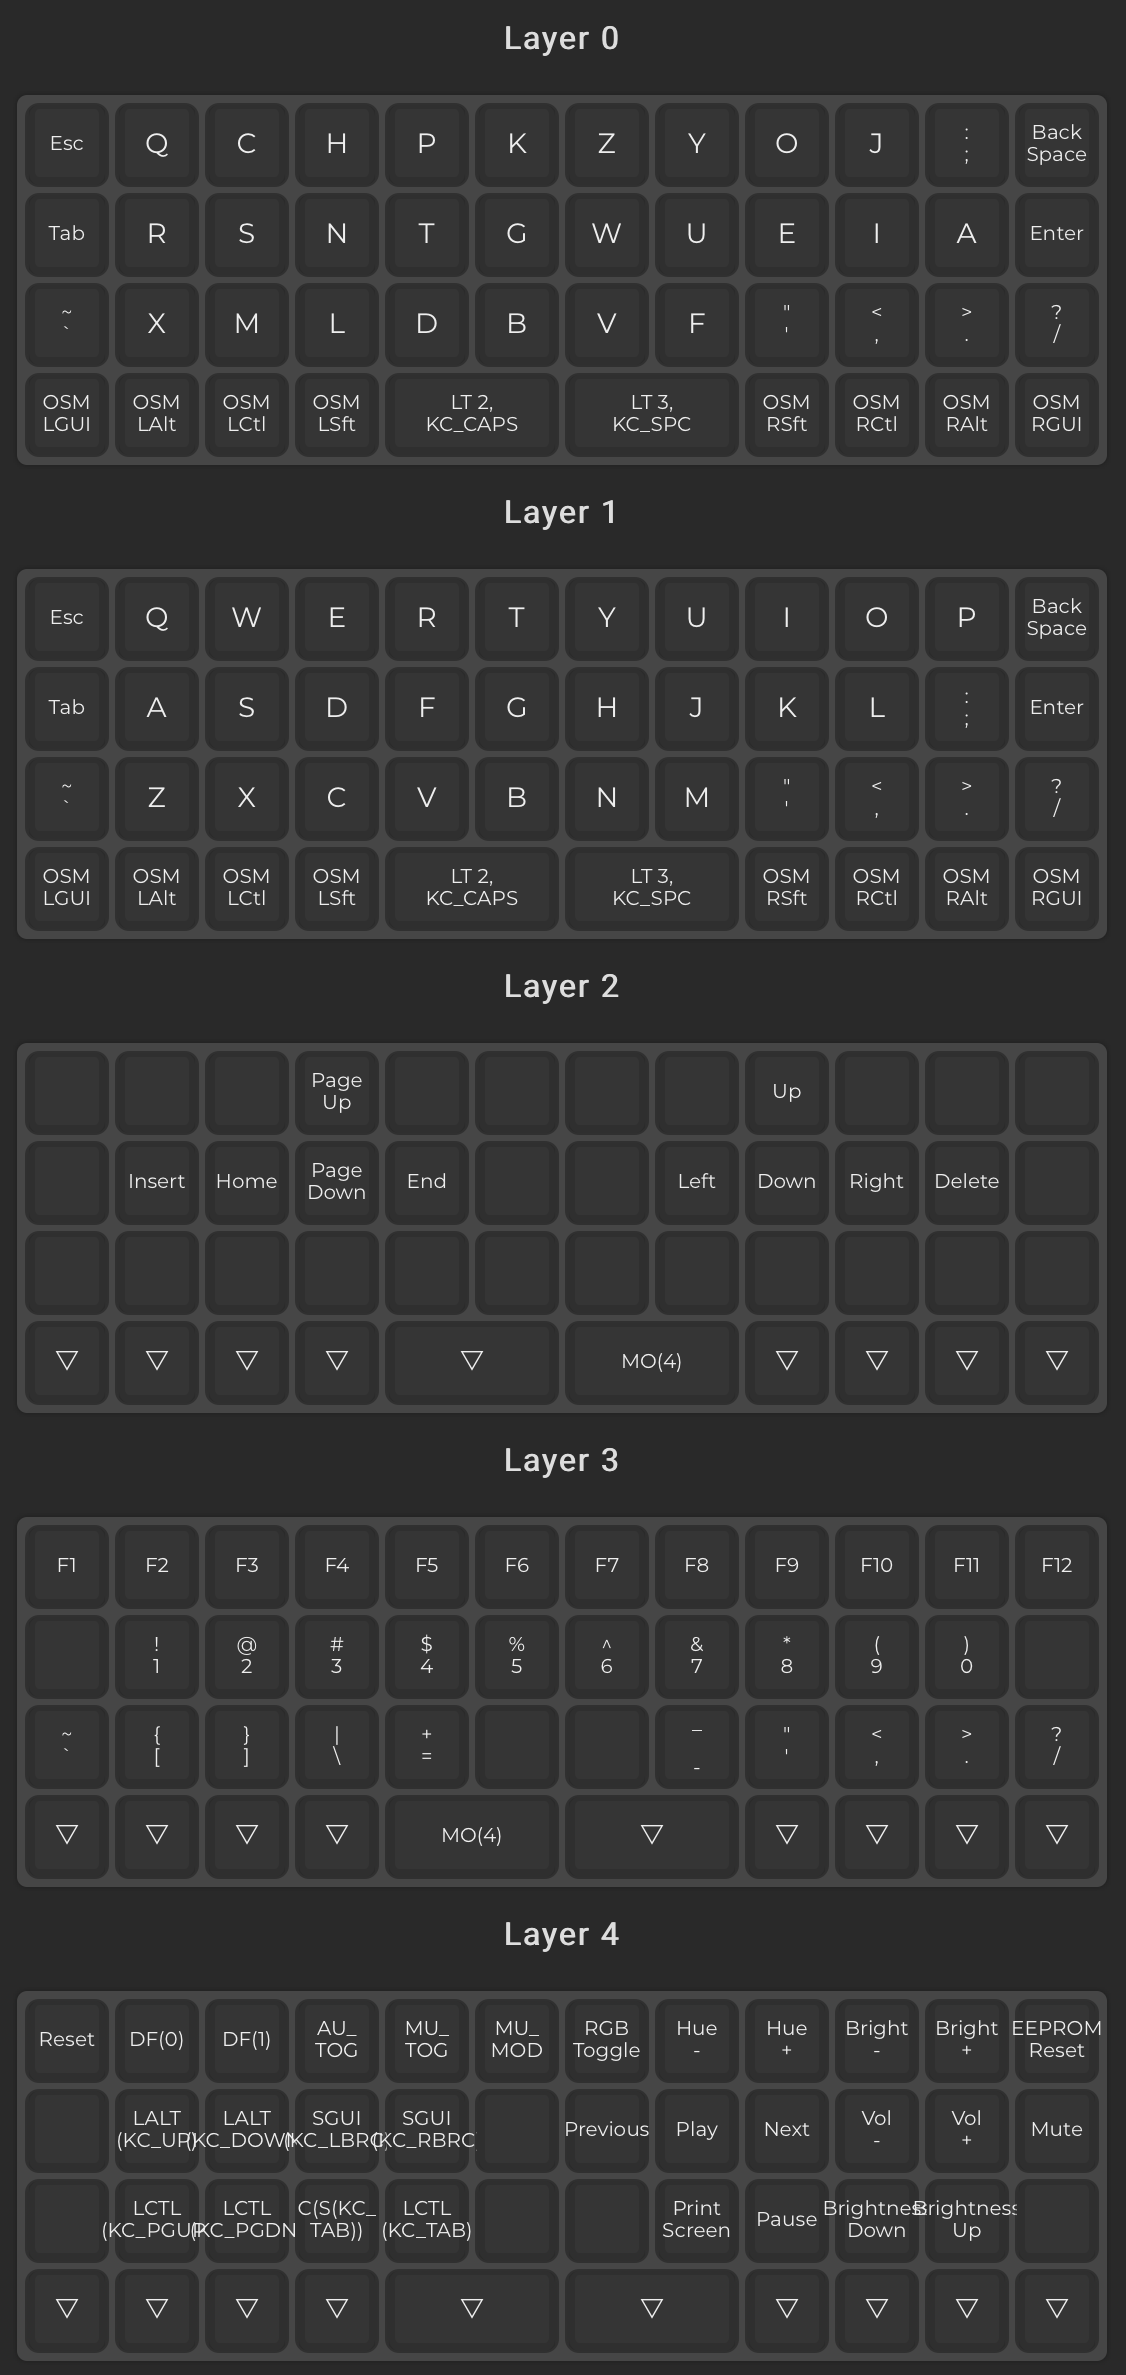
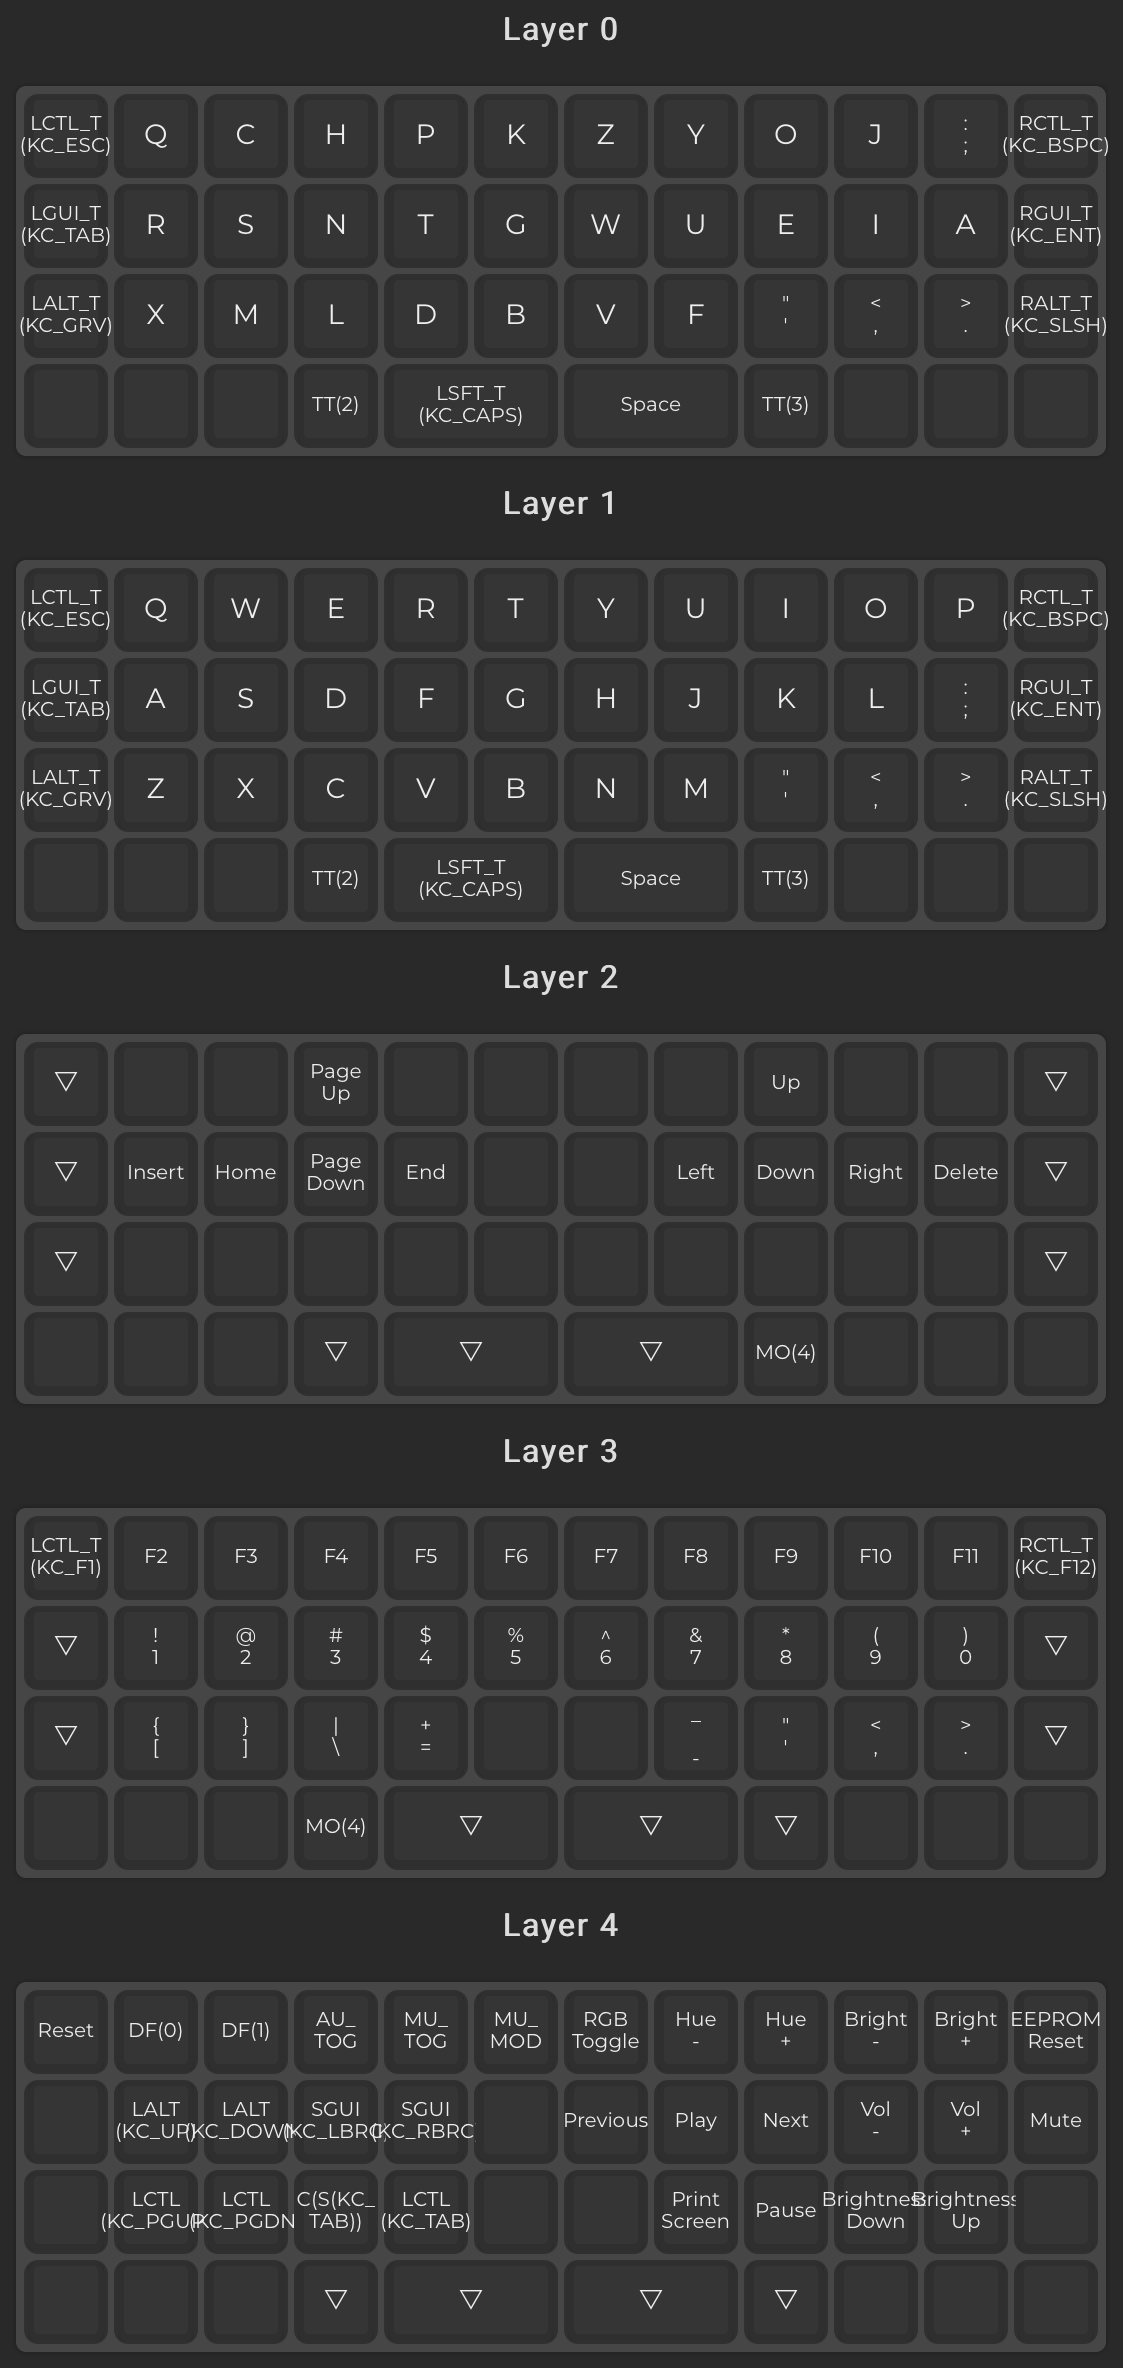
Try side mods

diff --git a/keymap.c b/keymap.c
@@ -7,9 +7,9 @@
  */
 
 const uint16_t PROGMEM keymaps[][MATRIX_ROWS][MATRIX_COLS] = {
-	[0] = LAYOUT_planck_2x2u(KC_ESC, KC_Q, KC_C, KC_H, KC_P, KC_K, KC_Z, KC_Y, KC_O, KC_J, KC_SCLN, KC_BSPC, KC_TAB, KC_R, KC_S, KC_N, KC_T, KC_G, KC_W, KC_U, KC_E, KC_I, KC_A, KC_ENT, KC_GRV, KC_X, KC_M, KC_L, KC_D, KC_B, KC_V, KC_F, KC_QUOT, KC_COMM, KC_DOT, KC_SLSH, OSM(MOD_LGUI), OSM(MOD_LALT), OSM(MOD_LCTL), OSM(MOD_LSFT), LT(2,KC_CAPS), LT(3,KC_SPC), OSM(MOD_RSFT), OSM(MOD_RCTL), OSM(MOD_RALT), OSM(MOD_RGUI)),
-	[1] = LAYOUT_planck_2x2u(KC_ESC, KC_Q, KC_W, KC_E, KC_R, KC_T, KC_Y, KC_U, KC_I, KC_O, KC_P, KC_BSPC, KC_TAB, KC_A, KC_S, KC_D, KC_F, KC_G, KC_H, KC_J, KC_K, KC_L, KC_SCLN, KC_ENT, KC_GRV, KC_Z, KC_X, KC_C, KC_V, KC_B, KC_N, KC_M, KC_QUOT, KC_COMM, KC_DOT, KC_SLSH, OSM(MOD_LGUI), OSM(MOD_LALT), OSM(MOD_LCTL), OSM(MOD_LSFT), LT(2,KC_CAPS), LT(3,KC_SPC), OSM(MOD_RSFT), OSM(MOD_RCTL), OSM(MOD_RALT), OSM(MOD_RGUI)),
-	[2] = LAYOUT_planck_2x2u(KC_NO, KC_NO, KC_NO, KC_PGUP, KC_NO, KC_NO, KC_NO, KC_NO, KC_UP, KC_NO, KC_NO, KC_NO, KC_NO, KC_INS, KC_HOME, KC_PGDN, KC_END, KC_NO, KC_NO, KC_LEFT, KC_DOWN, KC_RGHT, KC_DEL, KC_NO, KC_NO, KC_NO, KC_NO, KC_NO, KC_NO, KC_NO, KC_NO, KC_NO, KC_NO, KC_NO, KC_NO, KC_NO, KC_TRNS, KC_TRNS, KC_TRNS, KC_TRNS, KC_TRNS, MO(4), KC_TRNS, KC_TRNS, KC_TRNS, KC_TRNS),
-	[3] = LAYOUT_planck_2x2u(KC_F1, KC_F2, KC_F3, KC_F4, KC_F5, KC_F6, KC_F7, KC_F8, KC_F9, KC_F10, KC_F11, KC_F12, KC_NO, KC_1, KC_2, KC_3, KC_4, KC_5, KC_6, KC_7, KC_8, KC_9, KC_0, KC_NO, KC_GRV, KC_LBRC, KC_RBRC, KC_BSLS, KC_EQL, KC_NO, KC_NO, KC_MINS, KC_QUOT, KC_COMM, KC_DOT, KC_SLSH, KC_TRNS, KC_TRNS, KC_TRNS, KC_TRNS, MO(4), KC_TRNS, KC_TRNS, KC_TRNS, KC_TRNS, KC_TRNS),
-	[4] = LAYOUT_planck_2x2u(RESET, DF(0), DF(1), AU_TOG, MU_TOG, MU_MOD, RGB_TOG, RGB_HUD, RGB_HUI, RGB_VAD, RGB_VAI, EEP_RST, KC_NO, LALT(KC_UP), LALT(KC_DOWN), SGUI(KC_LBRC), SGUI(KC_RBRC), KC_NO, KC_MPRV, KC_MPLY, KC_MNXT, KC_VOLD, KC_VOLU, KC_MUTE, KC_NO, LCTL(KC_PGUP), LCTL(KC_PGDN), C(S(KC_TAB)), LCTL(KC_TAB), KC_NO, KC_NO, KC_PSCR, KC_PAUS, KC_BRID, KC_BRIU, KC_NO, KC_TRNS, KC_TRNS, KC_TRNS, KC_TRNS, KC_TRNS, KC_TRNS, KC_TRNS, KC_TRNS, KC_TRNS, KC_TRNS)
+	[0] = LAYOUT_planck_2x2u(LCTL_T(KC_ESC), KC_Q, KC_C, KC_H, KC_P, KC_K, KC_Z, KC_Y, KC_O, KC_J, KC_SCLN, RCTL_T(KC_BSPC), LGUI_T(KC_TAB), KC_R, KC_S, KC_N, KC_T, KC_G, KC_W, KC_U, KC_E, KC_I, KC_A, RGUI_T(KC_ENT), LALT_T(KC_GRV), KC_X, KC_M, KC_L, KC_D, KC_B, KC_V, KC_F, KC_QUOT, KC_COMM, KC_DOT, RALT_T(KC_SLSH), KC_NO, KC_NO, KC_NO, TT(2), LSFT_T(KC_CAPS), KC_SPC, TT(3), KC_NO, KC_NO, KC_NO),
+	[1] = LAYOUT_planck_2x2u(LCTL_T(KC_ESC), KC_Q, KC_W, KC_E, KC_R, KC_T, KC_Y, KC_U, KC_I, KC_O, KC_P, RCTL_T(KC_BSPC), LGUI_T(KC_TAB), KC_A, KC_S, KC_D, KC_F, KC_G, KC_H, KC_J, KC_K, KC_L, KC_SCLN, RGUI_T(KC_ENT), LALT_T(KC_GRV), KC_Z, KC_X, KC_C, KC_V, KC_B, KC_N, KC_M, KC_QUOT, KC_COMM, KC_DOT, RALT_T(KC_SLSH), KC_NO, KC_NO, KC_NO, TT(2), LSFT_T(KC_CAPS), KC_SPC, TT(3), KC_NO, KC_NO, KC_NO),
+	[2] = LAYOUT_planck_2x2u(KC_TRNS, KC_NO, KC_NO, KC_PGUP, KC_NO, KC_NO, KC_NO, KC_NO, KC_UP, KC_NO, KC_NO, KC_TRNS, KC_TRNS, KC_INS, KC_HOME, KC_PGDN, KC_END, KC_NO, KC_NO, KC_LEFT, KC_DOWN, KC_RGHT, KC_DEL, KC_TRNS, KC_TRNS, KC_NO, KC_NO, KC_NO, KC_NO, KC_NO, KC_NO, KC_NO, KC_NO, KC_NO, KC_NO, KC_TRNS, KC_NO, KC_NO, KC_NO, KC_TRNS, KC_TRNS, KC_TRNS, MO(4), KC_NO, KC_NO, KC_NO),
+	[3] = LAYOUT_planck_2x2u(LCTL_T(KC_F1), KC_F2, KC_F3, KC_F4, KC_F5, KC_F6, KC_F7, KC_F8, KC_F9, KC_F10, KC_F11, RCTL_T(KC_F12), KC_TRNS, KC_1, KC_2, KC_3, KC_4, KC_5, KC_6, KC_7, KC_8, KC_9, KC_0, KC_TRNS, KC_TRNS, KC_LBRC, KC_RBRC, KC_BSLS, KC_EQL, KC_NO, KC_NO, KC_MINS, KC_QUOT, KC_COMM, KC_DOT, KC_TRNS, KC_NO, KC_NO, KC_NO, MO(4), KC_TRNS, KC_TRNS, KC_TRNS, KC_NO, KC_NO, KC_NO),
+	[4] = LAYOUT_planck_2x2u(RESET, DF(0), DF(1), AU_TOG, MU_TOG, MU_MOD, RGB_TOG, RGB_HUD, RGB_HUI, RGB_VAD, RGB_VAI, EEP_RST, KC_NO, LALT(KC_UP), LALT(KC_DOWN), SGUI(KC_LBRC), SGUI(KC_RBRC), KC_NO, KC_MPRV, KC_MPLY, KC_MNXT, KC_VOLD, KC_VOLU, KC_MUTE, KC_NO, LCTL(KC_PGUP), LCTL(KC_PGDN), C(S(KC_TAB)), LCTL(KC_TAB), KC_NO, KC_NO, KC_PSCR, KC_PAUS, KC_BRID, KC_BRIU, KC_NO, KC_NO, KC_NO, KC_NO, KC_TRNS, KC_TRNS, KC_TRNS, KC_TRNS, KC_NO, KC_NO, KC_NO)
 };

diff --git a/config.h b/config.h
@@ -2,9 +2,9 @@
  * Tap options
  */
 #define TAPPING_TERM 200
-// #define IGNORE_MOD_TAP_INTERRUPT
-// #define PERMISSIVE_HOLD
+#define IGNORE_MOD_TAP_INTERRUPT
+#define PERMISSIVE_HOLD
 // #define TAPPING_FORCE_HOLD // Incompatible with oneshot toggle
 
-#define ONESHOT_TAP_TOGGLE 2
-#define ONESHOT_TIMEOUT 2000
+// #define ONESHOT_TAP_TOGGLE 2
+// #define ONESHOT_TIMEOUT 2000
